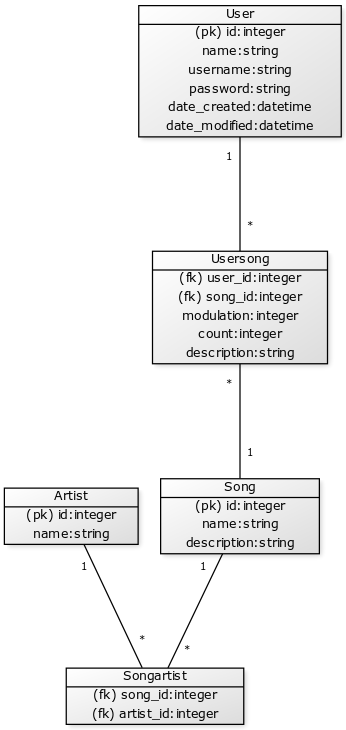
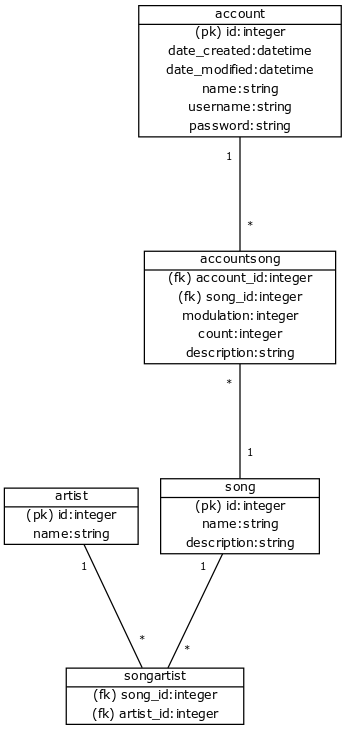
lomakkeet käyttämään wtf:ää, tietokantakaavio ajan tasalle, kirjautumistoiminto

diff --git a/application/templates/songs/change.html b/application/templates/songs/change.html
@@ -2,7 +2,27 @@
   
 {% block body %}
 <form method="POST" action="{{ url_for('change_form', song_id=t.id) }}">
-  <input type="text" name="name"/>
-  <input type="submit" value="Change the name"/>
+  <table>
+      <tr>
+	      <td>
+	        {{ form.name.label }}
+	      </td>
+	      <td>
+	        {{ form.name }}
+	      </td>
+      </tr>
+      <tr>
+          <td>
+            {{ form.description.label }}
+          </td>
+          <td>
+            {{ form.description }}
+          </td>
+              </tr>
+      <tr>
+	      <td colspan="2">   
+            <input type="submit" value="Save changes"/>
+	      </td>
+      </tr>
 </form>
 {% endblock %}

diff --git a/application/templates/auth/loginform.html b/application/templates/auth/loginform.html
@@ -1,0 +1,29 @@
+{% extends "layout.html" %}
+
+{% block body %}
+{{ error }}
+<form method="POST" action="{{ url_for('auth_login') }}">
+  <table>
+    <tr>
+      <td>
+	{{ form.username.label }}
+      </td>
+      <td>
+	{{ form.username }}
+      </td>
+    </tr>
+    <tr>
+      <td>
+	{{ form.password.label }}
+      </td>
+      <td>
+	{{ form.password }}
+      </td>
+    </tr>
+    <tr>
+      <td colspan="2">
+	<input type="submit" value="Login"/>
+      </td>
+    </tr>
+</form>
+{% endblock %}

diff --git a/application/templates/layout.html b/application/templates/layout.html
@@ -6,6 +6,14 @@
   </head>
 
   <body>
+      {% if current_user.is_authenticated %}
+      <p>
+          Logged in {{ current_user.name }}
+      </p>
+      {% else %}
+      <a href="{{ url_for('auth_login') }}">Log in</a>
+      {% endif %}
+
       <ul>
           <li><a href="{{ url_for('songs_index') }}">List songs</a></li>
           <li><a href="{{ url_for('songs_form') }}">Add a song</a></li>

diff --git a/application/templates/songs/list.html b/application/templates/songs/list.html
@@ -4,10 +4,12 @@
   <table>
     <tr>
       <th>Song</th>
+      <th>Description</th>
     </tr>
     {% for song in songs %}
     <tr>
       <td>{{ song.name }}</td>
+      <td>{{ song.description }}</td>
       <td>
         <li><a href="{{ url_for('songs_change_name', song_id=song.id) }}">Change</a></li>
       </td>

diff --git a/application/templates/songs/new.html b/application/templates/songs/new.html
@@ -10,6 +10,13 @@
       <td>
        {{ form.name }}
       </td>
+      <td>
+          <ul>
+            {% for error in form.name.errors %}
+            <li>{{ error }}</li>
+            {% endfor %}
+          </ul>
+        </td>
     </tr>
     <tr>
         <td>

diff --git a/application/songs/views.py b/application/songs/views.py
@@ -17,20 +17,36 @@ def songs_change_name(song_id):
 
     t = Song.query.get(song_id)
     
-    return render_template("songs/change.html", t=t)
+    # return render_template("songs/change.html", t=t ) 
+    return render_template("songs/change.html", t=t, form = SongForm() )
 
 @app.route("/songs/<song_id>",  methods=["POST"])
 def change_form(song_id):
 
-    t = Song.query.get(song_id)   
-    t.name = request.form.get("name")
+    # t = Song.query.get(song_id)   
+    # t.name = request.form.get("name")
+    # db.session().commit()
+    # return redirect(url_for("songs_index"))
+
+    form = SongForm(request.form)
+    t = Song.query.get(song_id) 
+    t.name = form.name.data
+    t.description = form.description.data
     db.session().commit()
+     
     return redirect(url_for("songs_index"))
+
+    #return render_template("songs/change.html", form = SongForm())
+
+
 
 @app.route("/songs/", methods=["POST"])
 def songs_create():
     form = SongForm(request.form)
     
+    if not form.validate():
+        return render_template("songs/new.html", form = form)
+
     t = Song(form.name.data)
     t.description = form.description.data
 

diff --git a/application/auth/models.py b/application/auth/models.py
@@ -1,0 +1,31 @@
+from application import db
+
+class User(db.Model):
+
+    __tablename__ = "account"
+  
+    id = db.Column(db.Integer, primary_key=True)
+    date_created = db.Column(db.DateTime, default=db.func.current_timestamp())
+    date_modified = db.Column(db.DateTime, default=db.func.current_timestamp(),
+                              onupdate=db.func.current_timestamp())
+
+    name = db.Column(db.String(144), nullable=False)
+    username = db.Column(db.String(144), nullable=False)
+    password = db.Column(db.String(144), nullable=False)
+
+    def __init__(self, name, username, password):
+        self.name = name
+        self.username = username
+        self.password = password
+  
+    def get_id(self):
+        return self.id
+
+    def is_active(self):
+        return True
+
+    def is_anonymous(self):
+        return False
+
+    def is_authenticated(self):
+        return True

diff --git a/application/__init__.py b/application/__init__.py
@@ -23,5 +23,27 @@ from application.songs import models
 # Luetaan kansion application kansiosta songs tiedoston views sisältö
 from application.songs import views
 
+# Luetaan kansion application kansiosta auth tiedoston models sisältö
+from application.auth import models 
+
+# Luetaan kansion application kansiosta auth tiedoston views sisältö
+from application.auth import views
+
+# Kirjautuminen
+from application.auth.models import User
+from os import urandom
+app.config["SECRET_KEY"] = urandom(32)
+
+from flask_login import LoginManager
+login_manager = LoginManager()
+login_manager.init_app(app)
+
+login_manager.login_view = "auth_login"
+login_manager.login_message = "Please login to use this functionality."
+
+@login_manager.user_loader
+def load_user(user_id):
+    return User.query.get(user_id)
+
 # Luodaan lopulta tarvittavat tietokantataulut
 db.create_all()

diff --git a/application/auth/views.py b/application/auth/views.py
@@ -1,0 +1,23 @@
+from flask import render_template, request, redirect, url_for
+from flask_login import login_user
+
+from application import app
+from application.auth.models import User
+from application.auth.forms import LoginForm
+
+@app.route("/auth/login", methods = ["GET", "POST"])
+def auth_login():
+    if request.method == "GET":
+        return render_template("auth/loginform.html", form = LoginForm())
+
+    form = LoginForm(request.form)
+    # mahdolliset validoinnit
+
+    user = User.query.filter_by(username=form.username.data, password=form.password.data).first()
+    if not user:
+        return render_template("auth/loginform.html", form = form,
+                               error = "No such username or password")
+
+
+    login_user(user)
+    return redirect(url_for("index"))  

diff --git a/application/songs/forms.py b/application/songs/forms.py
@@ -1,8 +1,8 @@
 from flask_wtf import FlaskForm
-from wtforms import StringField
+from wtforms import StringField, validators
 
 class SongForm(FlaskForm):
-    name = StringField("Song name")
+    name = StringField("Song name", [validators.Length(min=1)])
     description = StringField("Song description")
  
     class Meta:

diff --git a/application/auth/forms.py b/application/auth/forms.py
@@ -1,0 +1,9 @@
+from flask_wtf import FlaskForm
+from wtforms import PasswordField, StringField
+  
+class LoginForm(FlaskForm):
+    username = StringField("Username")
+    password = PasswordField("Password")
+  
+    class Meta:
+        csrf = False

diff --git a/README.md b/README.md
@@ -33,3 +33,8 @@ Käyttäjät voivat luoda oman listauksen suosikkilauluistaan. Omaan listaan voi
 * [Sovellus Herokussa](https://karaokepal.herokuapp.com/)
 * [Tietokantakaavio](https://github.com/apndx/Karaokepal/blob/master/documentation/tietokantakaavio.png)
 
+## Testikäyttäjä
+
+* Username: elvis
+* Password: king
+* Name: Test Elvis
